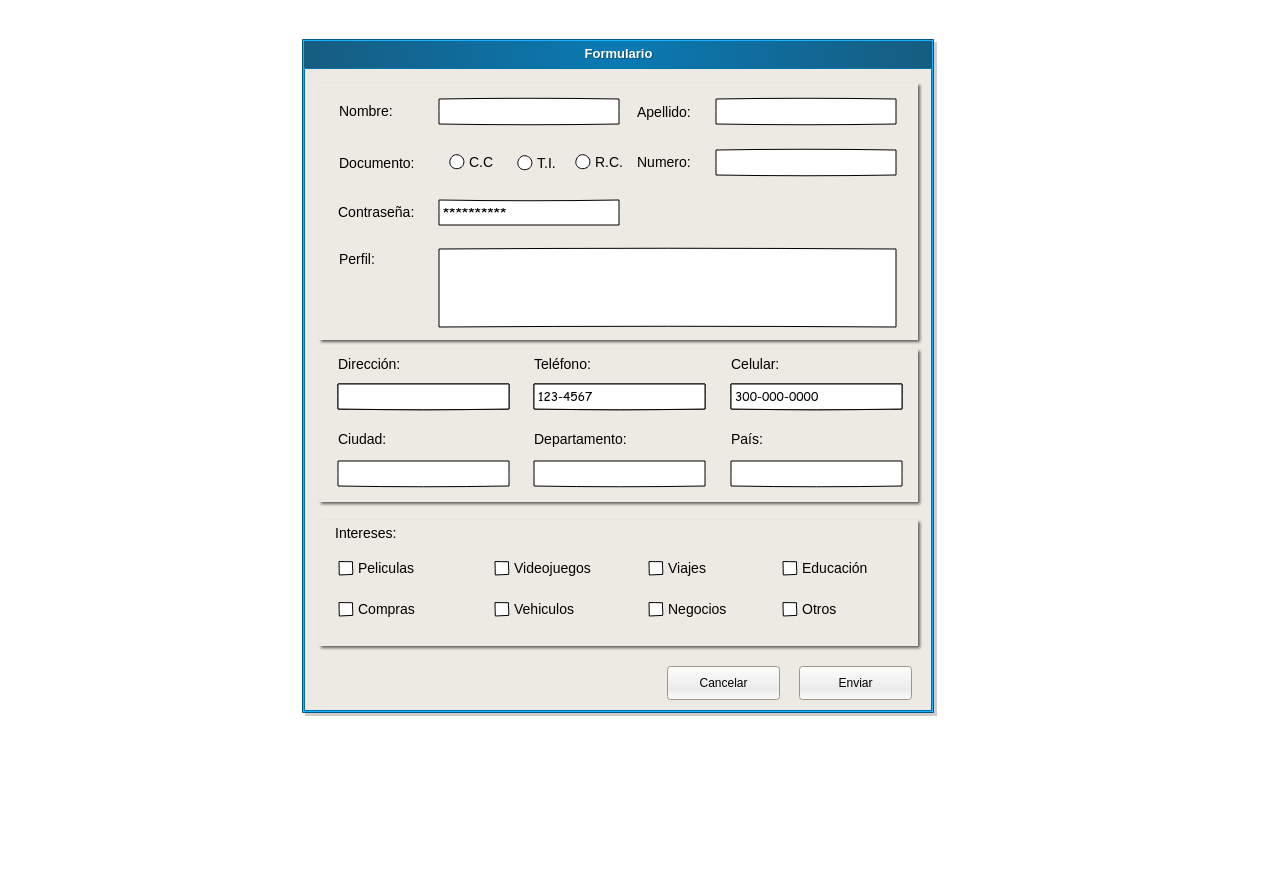
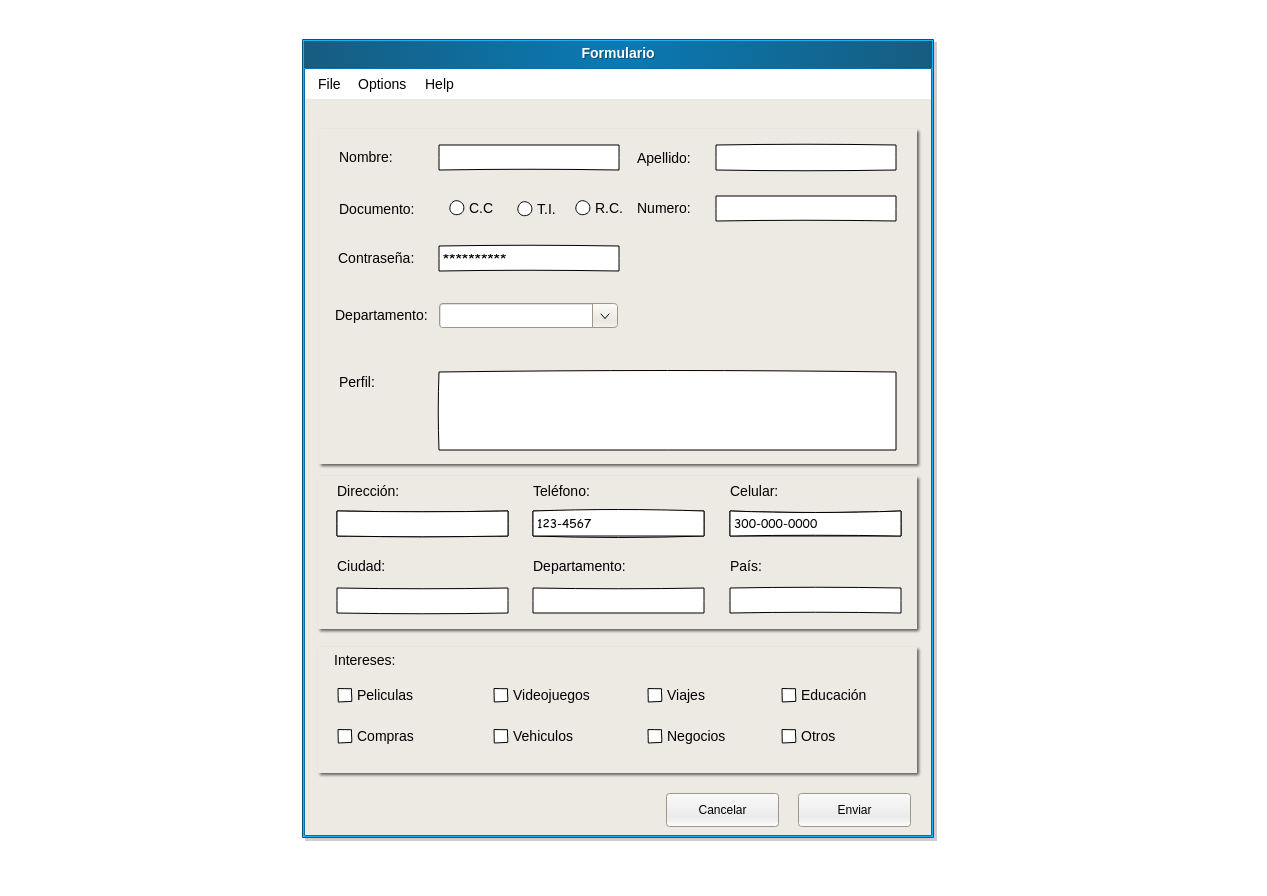
Update Description

Changed region(s): [[0.2155, 0.0312, 0.7388, 0.9375]]

diff --git a/formulario/README.md b/formulario/README.md
@@ -1,4 +1,24 @@
 # Formulario
 
 
-Implemente la interfaz basándose en el diseño del archivo ![formulario](https://github.com/gomezpirry/interactiva/tree/master/formulario/formulario.png). Tenga en cuenta que el campo teléfono debe tener formato `NNN-NNNN` (donde `N` es un número) y el campo ceular debe tener formato `NNN-NNN-NNNN` (donde `N` es un número)
+Implemente la interfaz basándose en el diseño del archivo ![formulario](https://github.com/gomezpirry/interactiva/tree/master/formulario/formulario.png). Tenga en cuenta que el campo teléfono debe tener formato `NNN-NNNN` (donde `N` es un número) y el campo ceular debe tener formato `NNN-NNN-NNNN` (donde `N` es un número).
+
+Las opciones para los Menu del Menu bar son:
+* File
+  * New
+  * Save
+  * Send
+  * _______ (separador)
+  * Quit
+* Options
+  * Clear
+  * Fill
+* Help
+  * About
+  * Credits
+
+Las opciones para combo box de Departamento son
+* Valle del Cauca
+* Nariño
+* Cauca
+* Choco
